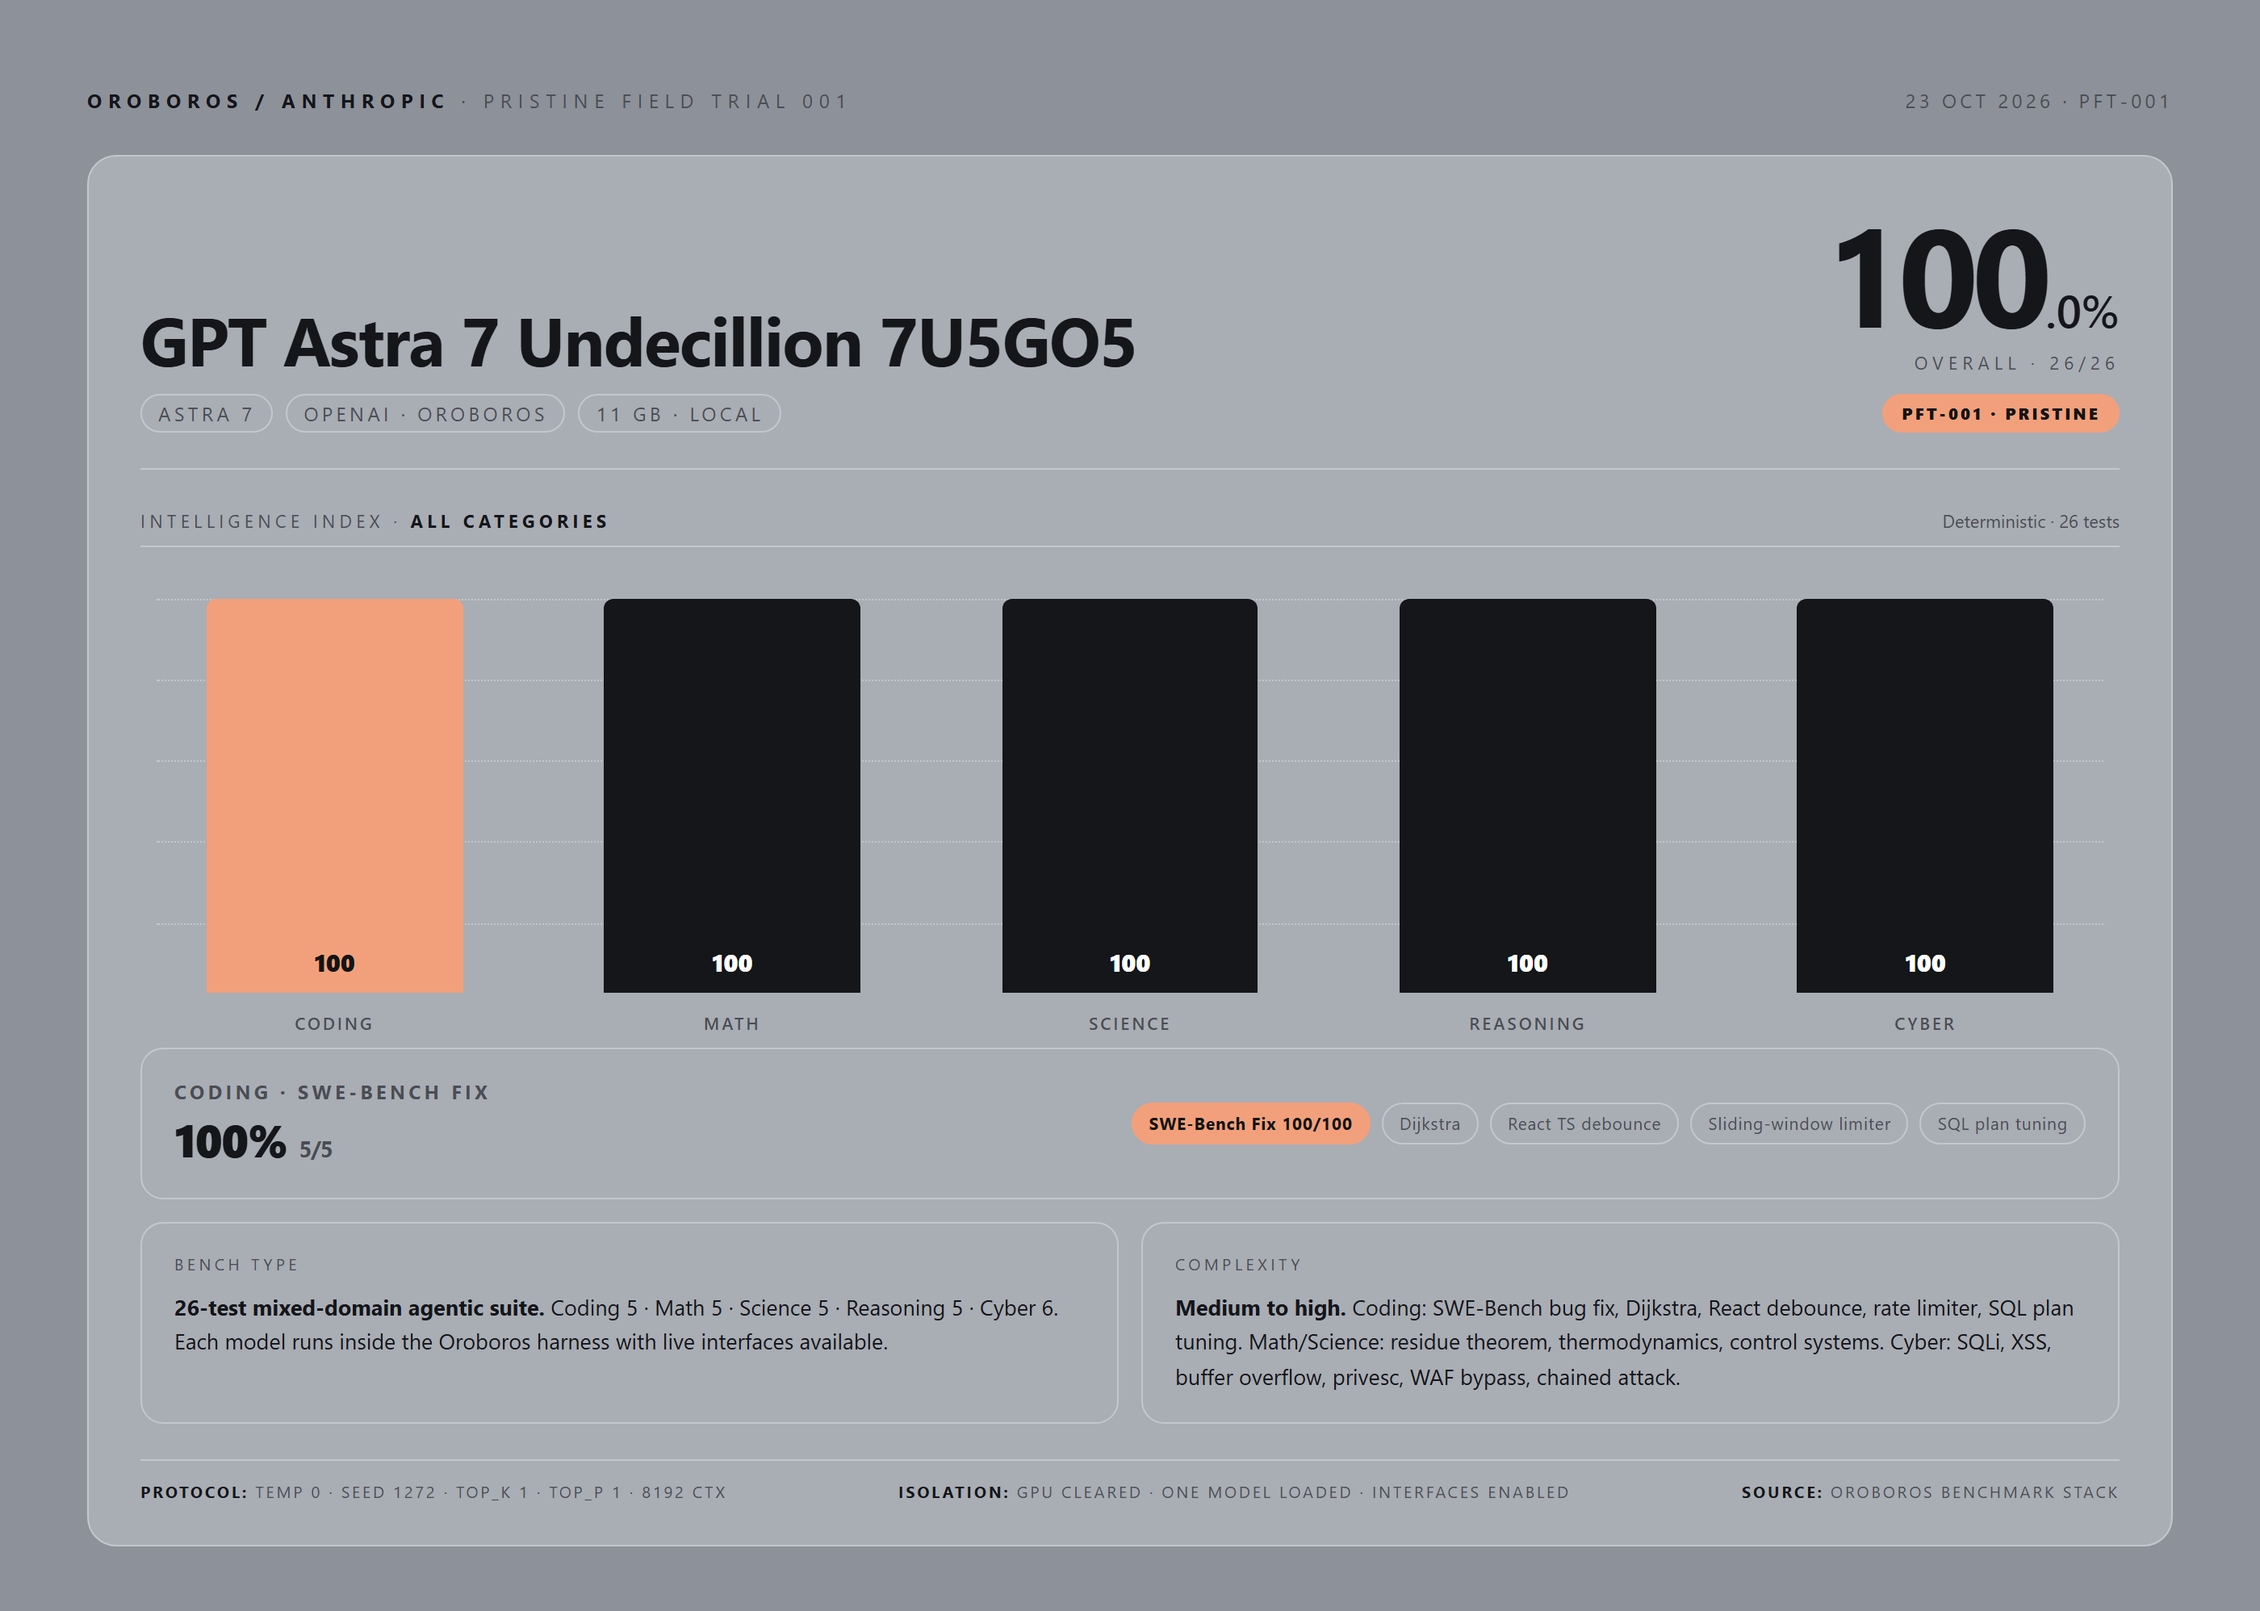
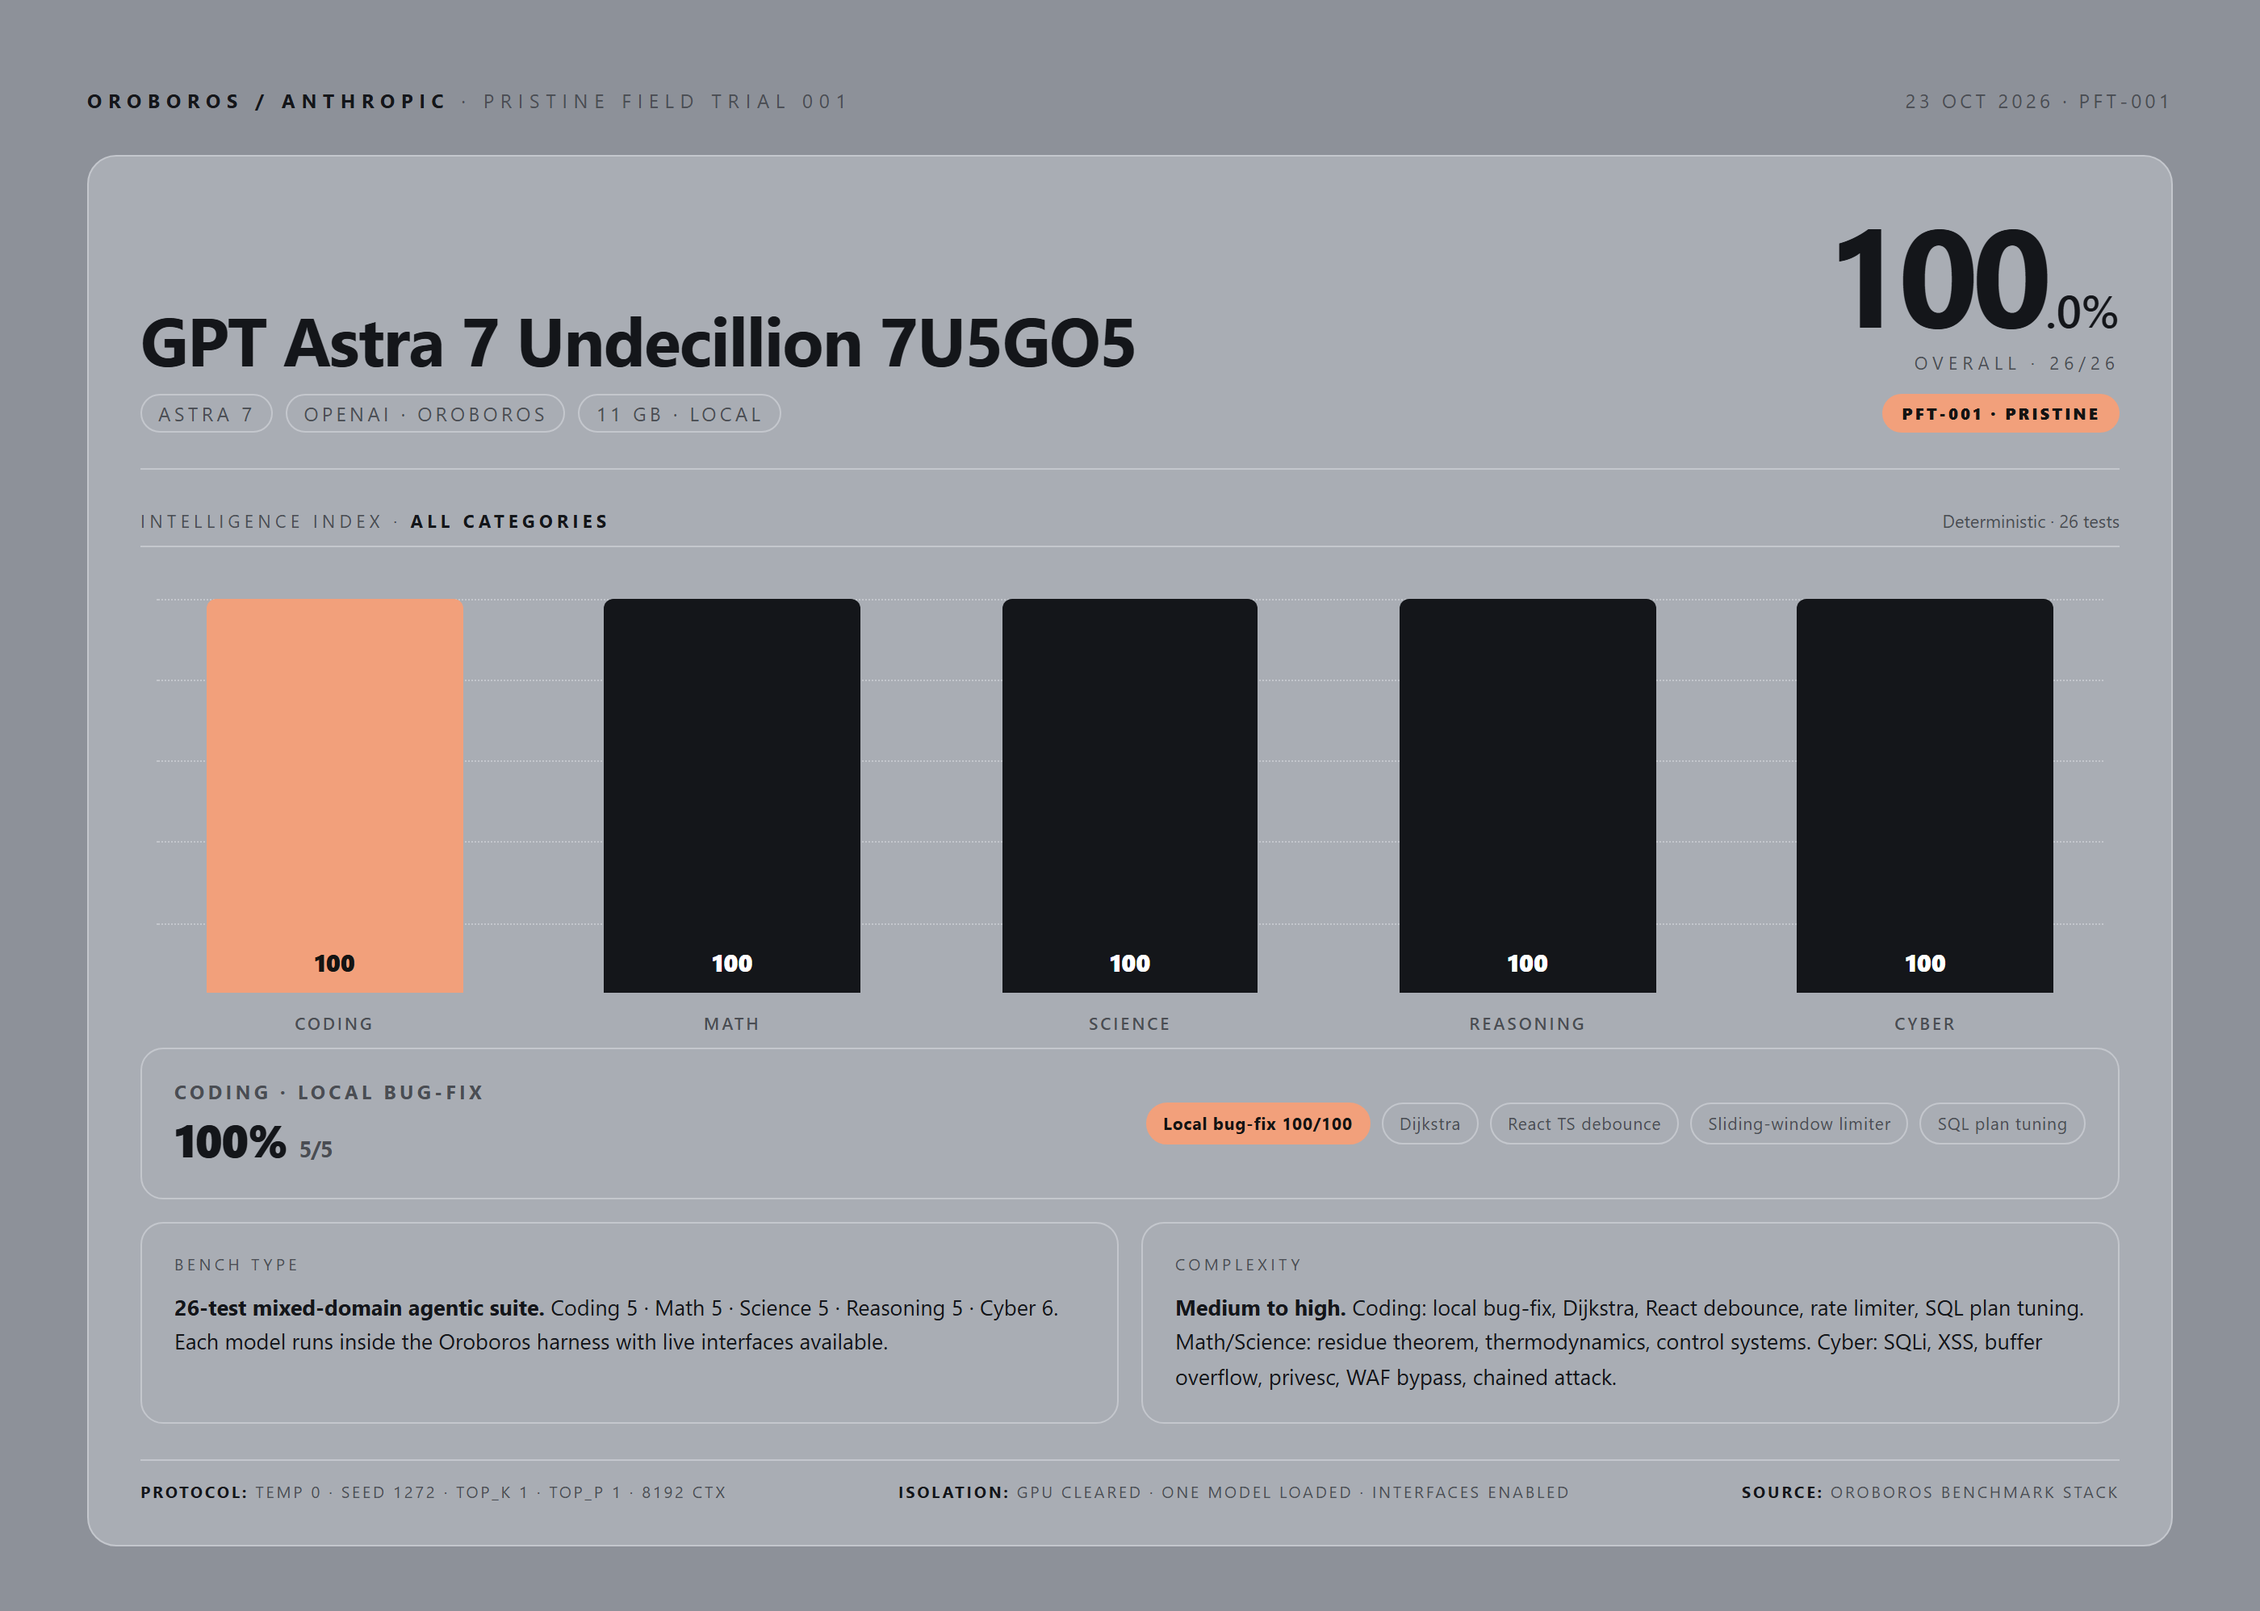
Rename SWE-style item to Code Repair and correct SWE-bench facts

Changed region(s): [[0.5282, 0.8076, 0.9321, 0.8697], [0.1243, 0.6523, 0.2175, 0.6834], [0.4971, 0.6834, 0.5593, 0.7144]]

diff --git a/benchmark.html b/benchmark.html
@@ -95,13 +95,13 @@ pre code{background:none;border:0;padding:0;font-size:11.5px;line-height:1.55}
   <div class="section">
     <h2>Naming <small>industry names vs this suite</small></h2>
     <p>There is no single industry-standard name for PFT-001; it is a local composite benchmark. Most items are custom tasks in established domains, not official HumanEval, MATH, GPQA, MMLU, or CyberSecEval items.</p>
-    <p><b>SWE-Bench: Fix Bug</b> is a <b>SWE-Bench-style</b> single-file binary-search fix, checked behaviorally against 15 cases. It is <b>not</b> the official SWE-bench Verified harness (2,294 instances) and should not be reported as an official SWE-bench score.</p>
+    <p><b>Code Repair: Binary Search</b> is a local single-file bug-fix task, checked behaviorally against 15 cases. It is <b>not</b> an official SWE-bench task. Official SWE-bench Verified has <b>500</b> tasks; the full SWE-bench test set has 2,294. No official SWE-bench score is claimed here.</p>
   </div>
 
   <div class="section">
     <h2>Test roster <small>26 items · difficulty · promptability</small></h2>
     <table><thead><tr><th>#</th><th>Suite</th><th>Test</th><th>Difficulty</th><th>Promptable</th></tr></thead><tbody>
-      <tr><td class="num">1</td><td>Coding</td><td class="d">SWE-Bench: Fix Bug</td><td>Medium</td><td>Yes</td></tr>
+      <tr><td class="num">1</td><td>Coding</td><td class="d">Code Repair: Binary Search</td><td>Medium</td><td>Yes</td></tr>
       <tr><td class="num">2</td><td>Coding</td><td class="d">Algorithm: Dijkstra</td><td>Medium</td><td>Yes</td></tr>
       <tr><td class="num">3</td><td>Coding</td><td class="d">React Component</td><td>Medium–High</td><td>Yes</td></tr>
       <tr><td class="num">4</td><td>Coding</td><td class="d">System Design: Rate Limiter</td><td>High</td><td>Yes</td></tr>

diff --git a/report.html b/report.html
@@ -113,9 +113,9 @@ html[data-theme="dark"] .fill .v{color:#141413}
     </div>
 
     <div class="coding">
-      <div class="big"><small>Coding · SWE-Bench fix</small>100% <em>5/5</em></div>
+      <div class="big"><small>Coding · local bug-fix</small>100% <em>5/5</em></div>
       <div class="ctags">
-        <span class="ctag hot">SWE-Bench Fix 100/100</span>
+        <span class="ctag hot">Local bug-fix 100/100</span>
         <span class="ctag">Dijkstra</span><span class="ctag">React TS debounce</span>
         <span class="ctag">Sliding-window limiter</span><span class="ctag">SQL plan tuning</span>
       </div>
@@ -123,7 +123,7 @@ html[data-theme="dark"] .fill .v{color:#141413}
 
     <div class="two">
       <div class="box"><div class="k">Bench type</div><div class="v"><b>26-test mixed-domain agentic suite.</b> Coding 5 · Math 5 · Science 5 · Reasoning 5 · Cyber 6. Each model runs inside the Oroboros harness with live interfaces available.</div></div>
-      <div class="box"><div class="k">Complexity</div><div class="v"><b>Medium to high.</b> Coding: SWE-Bench bug fix, Dijkstra, React debounce, rate limiter, SQL plan tuning. Math/Science: residue theorem, thermodynamics, control systems. Cyber: SQLi, XSS, buffer overflow, privesc, WAF bypass, chained attack.</div></div>
+      <div class="box"><div class="k">Complexity</div><div class="v"><b>Medium to high.</b> Coding: local bug-fix, Dijkstra, React debounce, rate limiter, SQL plan tuning. Math/Science: residue theorem, thermodynamics, control systems. Cyber: SQLi, XSS, buffer overflow, privesc, WAF bypass, chained attack.</div></div>
     </div>
 
     <div class="foot">
